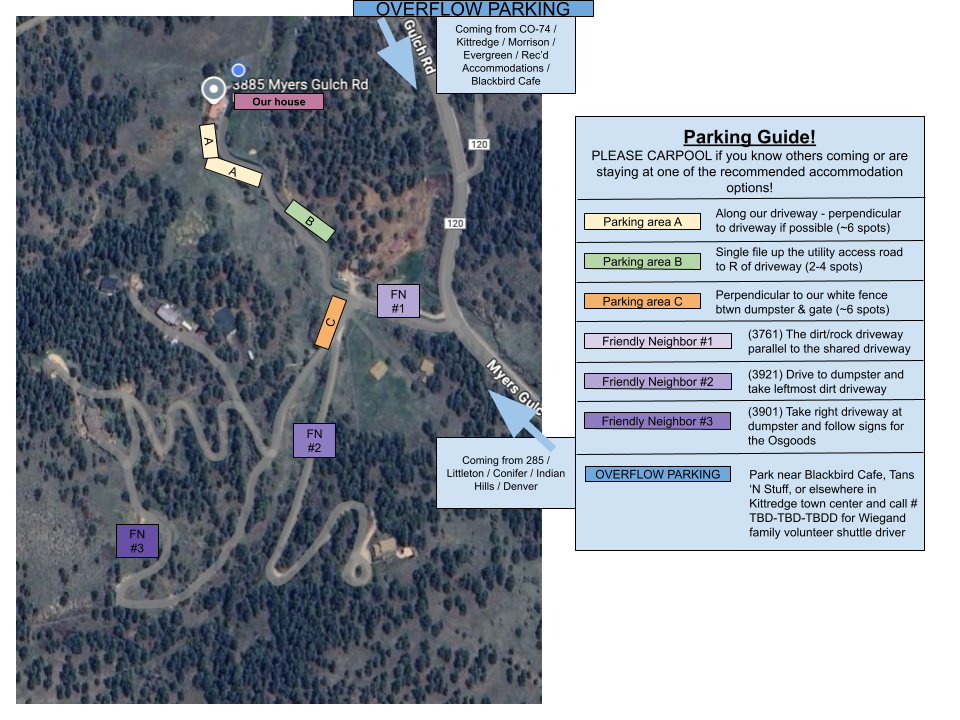
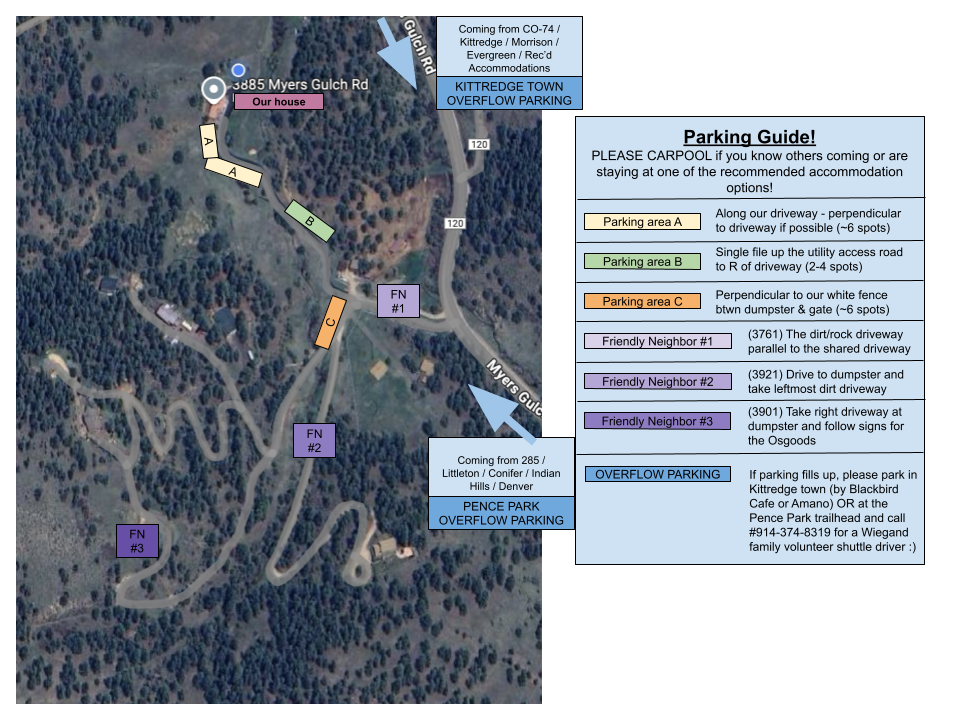
fix links and shuttles

Changed region(s): [[0.5938, 0.6417, 0.9688, 0.7944], [0.3438, 0.0, 0.625, 0.1528], [0.4375, 0.5194, 0.625, 0.7333]]

diff --git a/index.html b/index.html
@@ -168,7 +168,7 @@
 										<span>The Ruckus Ranch! (our house)</span>
 										<span>3885 Myers Gulch Rd, Kittredge, CO 80457</span>
 									</div>
-									<p>Casual Drinks & Dinner from our favorite food truck, <a href="https://www.veganvan.com/">Vegan Van</a>! Embarrassing photo slideshow, overzealous canine greetings, and beautiful sunset scenery! <a href=#welcome-details>See parking details</a></p>
+									<p>Casual Drinks & Dinner from our favorite food truck, <a href="https://www.veganvan.com" target="_blank">Vegan Van</a>! Embarrassing photo slideshow, overzealous canine greetings, and beautiful sunset scenery! <a href="#welcome-details">See parking details</a></p>
 								</div>
 							</div>
 							<div class="col-md-6 col-sm-6 text-center">
@@ -197,18 +197,19 @@
 	<div id="welcome-details" class="fh5co-section-gray">
 		<div class="overlay"></div>
 		<div class="container">
-			
-			<div class="row animate-box">
+			<div class="row">
 				<div class="col-md-12 text-center fh5co-heading" style="margin-bottom:.5rem">
 					<h2>Welcome Dinner</h2>
-					<p>Casual Drinks & Dinner from our favorite food truck, <a href="https://www.veganvan.com/">Vegan Van</a></p>
-					<p>Enjoy an embarrassing photo slideshow of the happy couple, overzealous canine greetings from the flower girl & ring bearer, chit chat with our other friends and family, and beautiful sunset scenery! </p>
-					<p><b>Parking will be limited, so please carpool</b> with friends or others staying at the same accommodations as much as possible	</p>
-					<p>For overflow parking, park at Blackbird Cafe in Kittredge and call Dan's sister (and our officiant), Emma Wiegand, at 914-374-8319 for a quick pickup! If you park at our neighbors or at Blackbird, please make sure you move your car by morning!</p>
 				</div>
 				<div class="row animate-box">
-					<div class="card col-md-10 col-md-offset-1">
-						<img alt="" class="img-responsive" src="images/Welcome Dinner Parking Guide.png">												
+					<div class="card col-md-12 text-center">
+						<p>Casual Drinks & Dinner from our favorite food truck, <strong><a href="https://www.veganvan.com" target="_blank">Vegan Van!</a></strong></p>
+						<p>Enjoy an embarrassing photo slideshow of the happy couple, overzealous canine greetings from the flower girl & ring bearer, chit chat with our other friends and family, and beautiful sunset scenery! </p>
+						<p><b>Parking will be limited, so please carpool</b> with friends or others staying at the same accommodations as much as possible	</p>
+						<p>For overflow parking, park at Blackbird Cafe or Amano in Kittredge town OR at the Pence Park trailhead and <strong>call Dan's sister Emma Wiegand, at 914-374-8319 for a shuttle to the party!</strong></p>
+						<div class="col-md-10 col-md-offset-1">
+							<img alt="" class="img-responsive" src="images/Welcome Dinner Parking Guide.png">
+						</div>												
 					</div>
 				</div>
 			</div>
@@ -428,37 +429,41 @@
 						<p><svg xmlns="http://www.w3.org/2000/svg" width="32" height="32" fill="currentColor" class="bi bi-bus-front acc-icon" viewBox="0 0 16 16">
 						<path d="M5 11a1 1 0 1 1-2 0 1 1 0 0 1 2 0m8 0a1 1 0 1 1-2 0 1 1 0 0 1 2 0m-6-1a1 1 0 1 0 0 2h2a1 1 0 1 0 0-2zm1-6c-1.876 0-3.426.109-4.552.226A.5.5 0 0 0 3 4.723v3.554a.5.5 0 0 0 .448.497C4.574 8.891 6.124 9 8 9s3.426-.109 4.552-.226A.5.5 0 0 0 13 8.277V4.723a.5.5 0 0 0-.448-.497A44 44 0 0 0 8 4m0-1c-1.837 0-3.353.107-4.448.22a.5.5 0 1 1-.104-.994A44 44 0 0 1 8 2c1.876 0 3.426.109 4.552.226a.5.5 0 1 1-.104.994A43 43 0 0 0 8 3"/>
 						<path d="M15 8a1 1 0 0 0 1-1V5a1 1 0 0 0-1-1V2.64c0-1.188-.845-2.232-2.064-2.372A44 44 0 0 0 8 0C5.9 0 4.208.136 3.064.268 1.845.408 1 1.452 1 2.64V4a1 1 0 0 0-1 1v2a1 1 0 0 0 1 1v3.5c0 .818.393 1.544 1 2v2a.5.5 0 0 0 .5.5h2a.5.5 0 0 0 .5-.5V14h6v1.5a.5.5 0 0 0 .5.5h2a.5.5 0 0 0 .5-.5v-2c.607-.456 1-1.182 1-2zM8 1c2.056 0 3.71.134 4.822.261.676.078 1.178.66 1.178 1.379v8.86a1.5 1.5 0 0 1-1.5 1.5h-9A1.5 1.5 0 0 1 2 11.5V2.64c0-.72.502-1.301 1.178-1.379A43 43 0 0 1 8 1"/>
-					  	</svg><b>We will have shuttles to the big event from the Comfort Suites, Highland Haven, or Country Cabins!</b> See the below schedule for timing. </p>
+					  	</svg><b>For guests who indicated they would be using the shuttle service for transportation, the shuttles will depart promptly at the times specified below.</b> Please be early/on time as shuttles will not wait, and space may be limited on the later shuttles. Missing the early departure times could require you to make alternative transportation arrangements to the venue. </p>
 					</div> 
 					<div class="col-md-10 col-md-offset-1" style="margin-bottom:.5rem;">
 						<h3>To the Event</h3> 
 						<span class="emphasis">Please take the 3pm shuttles if you can to make sure there are seats for everyone!</span>
 						<table>
-						<thead>
-						  <tr>
-							<th>Pickup 1</th>
-							<th>Pickup 2</th>
-							<th>Dropoff</th>
-						  </tr>
-						</thead>
-						<tbody>
-						  <tr>
-							<td>3:00pm @ Highland Haven</td>
-							<td>-</td>
-							<td>3:15pm @ Dunafon Castle</td>
-						  </tr>
-						  <tr>
-							<td>3:00pm @ Comfort Suites</td>
-							<td>3:10pm @ Cabins at Country Road</td>
-							<td>3:15pm @ Dunafon Castle</td>
-						  </tr>
-						  <tr>
-							<td>3:30pm @ Comfort Suites</td>
-							<td>3:40pm @ Cabins at Country Road</td>
-							<td>3:45pm @ Dunafon Castle</td>
-						  </tr>
-						</tbody>
-					  	</table>
+							<thead>
+							  <tr>
+								<th>Shuttle Departure Location</th>
+								<th>Shuttle Departure Time(s)</th>
+							  </tr>
+							</thead>
+							<tbody>
+							  <tr>
+								<td>
+								  <strong>Comfort Suites</strong> (29300 U.S Highway 40, 80439 Evergreen, CO)<br>
+								  Best parking for Denver Shuttle takers!
+								</td>
+								<td>3:00 PM<br>3:30 PM</td>
+							  </tr>
+							  <tr>
+								<td>
+									<strong>Highland Haven Creekside Inn</strong> (4395 Independence Trail, Evergreen, CO)<br>
+								</td>
+								<td>3:00 PM<br>3:30 PM</td>
+							  </tr>
+							  <tr>
+								<td>
+									<strong>The Cabins At Country Road</strong> (26490 CO-74, Evergreen, CO)<br>
+								</td>
+								<td>3:00 PM<br>3:40 PM</td>
+							  </tr>
+							</tbody>
+						  </table>
+						  
 						  <h3 style="margin-top:30px">From the Event</h3> 
 							<table>
 							<thead>
@@ -471,7 +476,7 @@
 							<tbody>
 							  <tr>
 								<td>8:00pm-10:00pm</td>
-								<td>Every 15 minutes</td>
+								<td>Every 30 minutes</td>
 								<td>Cabins at Country Road, Highland Haven, or Comfort Suites</td>
 							  </tr>
 							</tbody>
@@ -503,10 +508,10 @@
 					<div class="col-md-6">
 						<h3>Favorite Hikes</h3>
 							<ul>
-							<li><a href="https://www.alltrails.com/trail/us/colorado/winston-k-walker-loop">O'Fallon Park - Winston K Walker Loop</a></li>
-							<li><a href="https://www.alltrails.com/trail/us/colorado/bear-creek-trail-at-lair-of-the-bear-park">Lair of The Bear</a> (more crowded but creekside)</li>
-							<li><a href="https://www.alltrails.com/trail/us/colorado/pence-park-to-beaver-brook">Pence Park</a> (best views at the top)</li>
-							<li><a href="https://www.alltrails.com/parks/us/colorado/elk-meadow-park">Elk Meadow</a> (best Elk viewing if you go early)</li>
+							<li><a href="https://www.alltrails.com/trail/us/colorado/picnic-and-west-ridge-loop">O'Fallon Park - Winston K Walker Loop</a></li>
+							<li><a href="https://www.alltrails.com/parks/us/colorado/lair-o-the-bear-park">Lair of The Bear</a> (more crowded but creekside)</li>
+							<li><a href="https://www.alltrails.com/trail/us/colorado/independence-mountain-trail-at-pence-park">Pence Park</a> (best views at the top)</li>
+							<li><a href="https://www.alltrails.com/parks/us/colorado/elk-meadow-park--2">Elk Meadow</a> (best Elk viewing if you go early)</li>
 							</ul>
 						
 						<h3>Favorite Brunch (aka Breakfast Burrito)</h3>
@@ -522,7 +527,7 @@
 
 						<h3>Favorite Souvenir Shops</h3>
 							<ul>
-								<li><a href="https://www.mtnconnection.com/businesses/morrison">Morrison</a> or <a href="https://www.evergreenchamber.org/directory/shopping-retail/">Evergreen</a></li>
+								<li><a href="https://maps.app.goo.gl/AN1RRFZaoJJBMaUD9">Morrison</a> or <a href="https://maps.app.goo.gl/c6rHVAxeQa7UyNA2A">Evergreen</a></li>
 							</ul>
 						</div>
 
@@ -530,26 +535,26 @@
 
 							<h3>Favorite Beer Places</h3>
 							<ul>
-							<li><a href="https://www.revivalbrews.com/">Revival Brews</a> (Evergreen)</li>
-							<li><a href="https://www.redrocksbeergarden.com/">Red Rocks Beer Garden</a> (Morrison)</li>
-							<li><a href="https://lariatlodgebrewing.com/">Lariat Lodge</a> (Evergreen)</li>
+							<li><a href="https://www.revivalbrews.pub">Revival Brews</a> (Evergreen)</li>
+							<li><a href="https://www.redrocksbeergarden.com">Red Rocks Beer Garden</a> (Morrison)</li>
+							<li><a href="https://lariatlodgebrewing.com">Lariat Lodge</a> (Evergreen)</li>
 							</ul>
 
 							<h3>Favorite Live Music</h3>
 							<ul>
-							<li><a href="https://www.redrocksonline.com/">Red Rocks Amphitheater</a> (also offers Yoga on the Rocks)</li>
-							<li><a href="https://littlebearsaloon.com/">Little Bear Saloon</a> (Evergreen)</li>
-							<li><a href="https://www.blackbirdcafeevergreen.com/events">Thurs Nights at Blackbird</a> (Kittredge)</li>
+							<li><a href="https://www.redrocksonline.com/events">Red Rocks Amphitheater</a> (also offers Yoga on the Rocks)</li>
+							<li><a href="http://www.littlebearsaloon.com">Little Bear Saloon</a> (Evergreen)</li>
+							<li><a href="https://www.blackbirdcafeevergreen.com/thirsty-thursdays">Thurs Nights at Blackbird</a> (Kittredge)</li>
 							</ul>
 							
 							<h3>Favorite Coffee Shop</h3>
 							<ul>
-								<li><a href="https://www.amanoplantco.com/">Amano Plant Cafe</a> (Kittredge)</li>
+								<li><a href="https://www.amanoplantcafe.com">Amano Plant Cafe</a> (Kittredge)</li>
 							</ul>
 
 							<h3>Favorite Scenic Stroll</h3>
 							<ul>
-								<li><a href="https://evergreenrecreation.com/Facilities/Facility/Details/Evergreen-Lake-House-2">Stroll around Evergreen Lake</a></li>
+								<li><a href="https://www.tripadvisor.com/Attraction_Review-g33415-d812134-Reviews-Evergreen_Lake-Evergreen_Colorado.html">Stroll around Evergreen Lake</a></li>
 							</ul>
 
 						</div>		  
